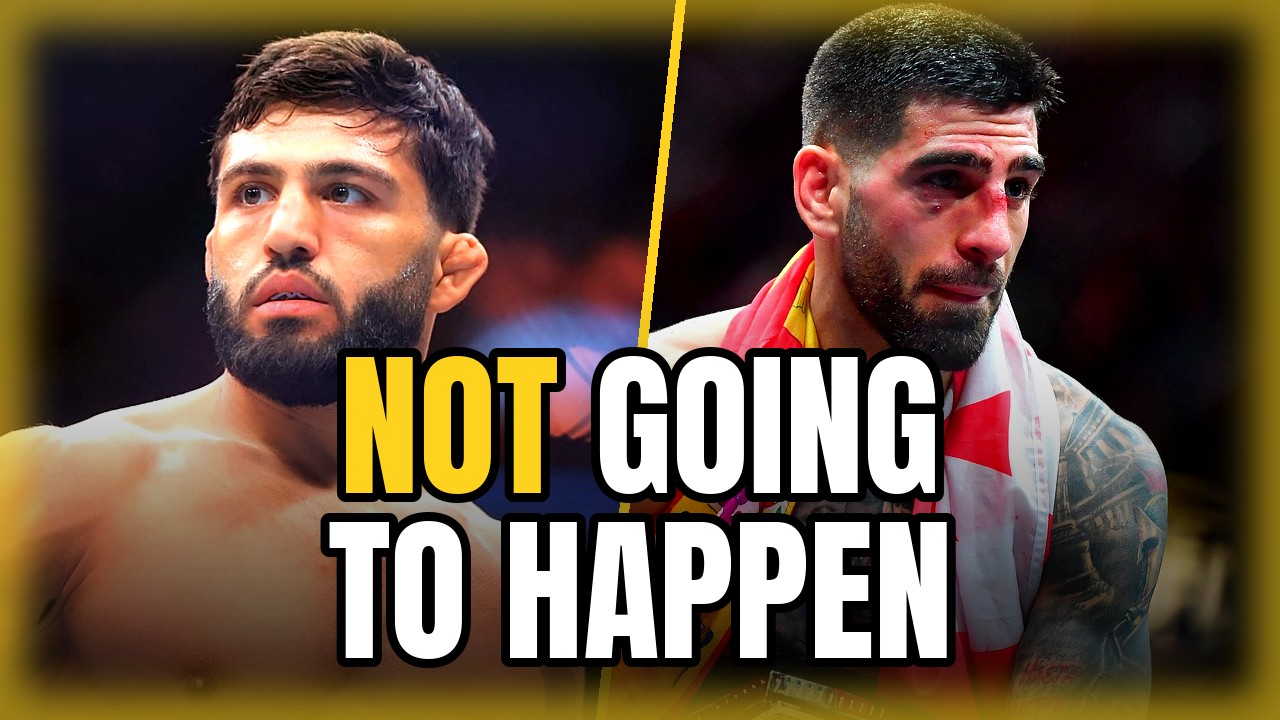
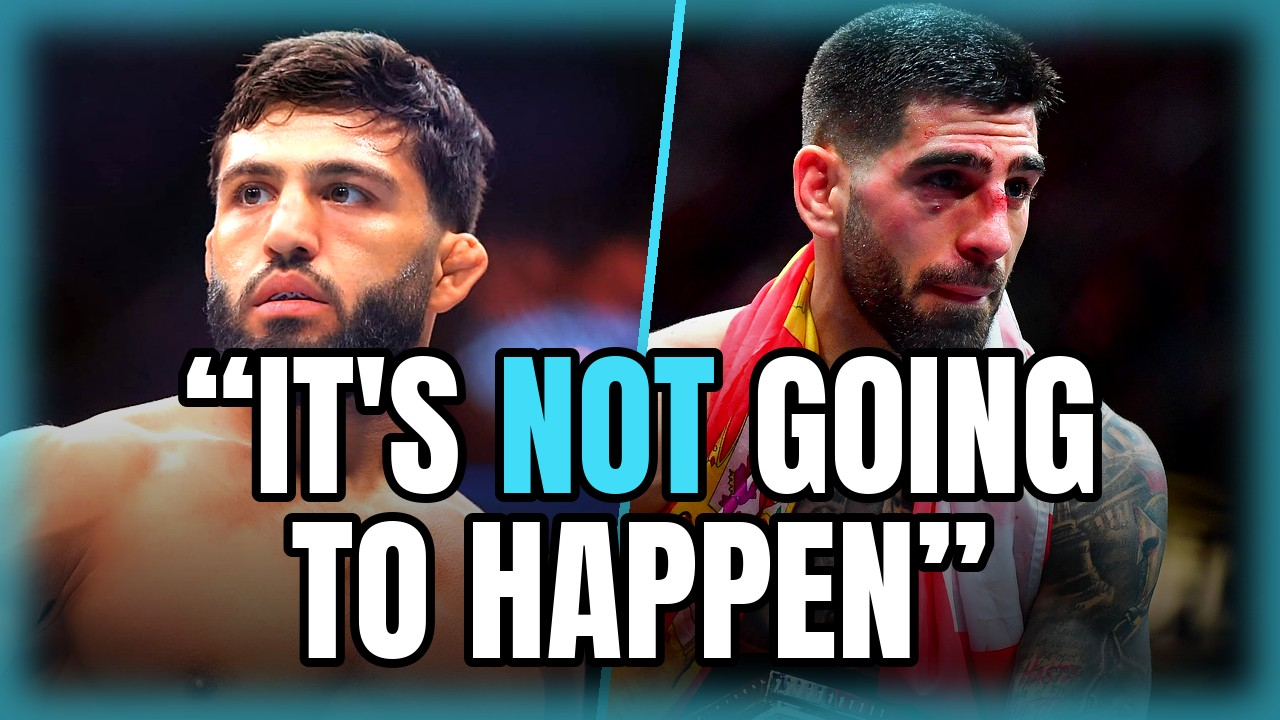
Cage Dispatch thumbnails: quote marks and the channel's light blue (validated by the user)
Claude-Session: https://claude.ai/code/session_015o5g6LdDicYeciswVaX7i1

diff --git a/services/newsvid_thumb.py b/services/newsvid_thumb.py
@@ -411,7 +411,13 @@ def make(job_dir, log=print):
     people = (th.get("people") or [])[:2]
     if len(people) < 2:
         raise RuntimeError("thumb.people : il faut deux personnes")
-    accent = tuple(int((plan.get("accent2") or "#FFD21F").lstrip("#")[i:i + 2], 16) for i in (0, 2, 4))
+    from services import newsvid as N
+    try:
+        tacc = N.channel(plan.get("channel") or "").get("thumb_accent")
+    except (KeyError, ValueError, SystemExit):
+        tacc = None
+    # couleur de la chaîne (l'utilisateur, 3 oct. : « bleu clair dans le thème de @CageDispatch »)
+    accent = tuple(int((tacc or plan.get("accent2") or "#FFD21F").lstrip("#")[i:i + 2], 16) for i in (0, 2, 4))
     red = tuple(int((plan.get("accent") or "#E10600").lstrip("#")[i:i + 2], 16) for i in (0, 2, 4))
     names = set(people) | {s.get("speaker") for s in plan["segments"] if s.get("speaker")} | \
         {v for v in (plan.get("spelling") or {}).values() if len(v.split()) >= 2}
@@ -424,6 +430,8 @@ def make(job_dir, log=print):
     left, right = (A[0][1], A[0][2]["face"]), (B[0][1], B[0][2]["face"])
     inset = (B[1][1], B[1][2]["face"]) if len(B) > 1 else (A[1][1], A[1][2]["face"]) if len(A) > 1 else None
     text, hl = th.get("text") or "", th.get("highlight") or ""
+    if text and not text.startswith(("“", '"')):
+        text = f"“{text}”"   # c'est une citation : entre guillemets (l'utilisateur, 3 oct.)
     out = []
     for v, col in VARIANTS:
         col = accent if col == "accent2" else red

diff --git a/services/newsvid.py b/services/newsvid.py
@@ -39,6 +39,7 @@ CHANNELS = {
         "accent": "#E10600", "accent2": "#FFD21F",
         "voice_provider": "algrow", "voice": "jvV8uNVYXJa37GHVtjXf",  # Joe Stokes, présentateur radio US
         "minutes": 18,
+        "thumb_accent": "#40DCF8",  # bleu clair de la bannière @CageDispatch (« DISPATCH ») : mot fort + contour
         "search": ["UFC news", "Dana White", "UFC interview"],
         # chaînes où sortent les interviews (id YouTube : leur flux RSS donne les vidéos du jour, cloud et PC).
         # Seulement des chaînes SANS revendication automatique (voir CLAIMERS) : vérifié le 3 oct. avec NexLev

diff --git a/CLAUDE.md b/CLAUDE.md
@@ -298,8 +298,11 @@ ouverture de ~60 s sans voix off (les phrases chocs), fin « drop your thoughts 
   coupés au son dans l'ouverture (pubs coupées si gros mot au début).
   Anton s'affiche ~40 % plus petit que sa taille ASS : vérifier les tailles sur des images fixes. L'ouverture ne
   rejoue jamais un passage du corps (`materialize` le retire) et **vérifier qui parle vraiment** dans un teaser
-  (l'animateur qui relit une vieille interview ≠ le combattant). **Miniature** : citation entière visible, assez
-  haut (`_text_block`, bas à TH-52) ; refaire une miniature garde les photos validées (en tête de `photos.json`).
+  (l'animateur qui relit une vieille interview ≠ le combattant). **Miniature** (validée 3 oct.) : deux photos face à
+  face, la citation **entre guillemets** (vraiment dite dans la vidéo), sur 2 lignes, grosse, assez haut, jamais coupée ;
+  mot fort + contour en **bleu clair de la chaîne** (`thumb_accent` #40DCF8, bannière @CageDispatch) ; jamais une
+  photo à plusieurs combattants (la vision a pris Oliveira pour Tsarukyan) : regarder qui est sur la photo ; refaire
+  une miniature garde les photos validées (en tête de `photos.json`).
   Test sans YouTube : fausse source (image `i.ytimg.com/vi/<id>/maxres2.jpg` en boucle + une voix off) →
   `render_clip` / `render_narration` / `render_sting`, puis regarder les images.
 - **Montage sur le VPS (prioritaire, rien à faire pour l'utilisateur)** : serveur `production/news_worker.py`
